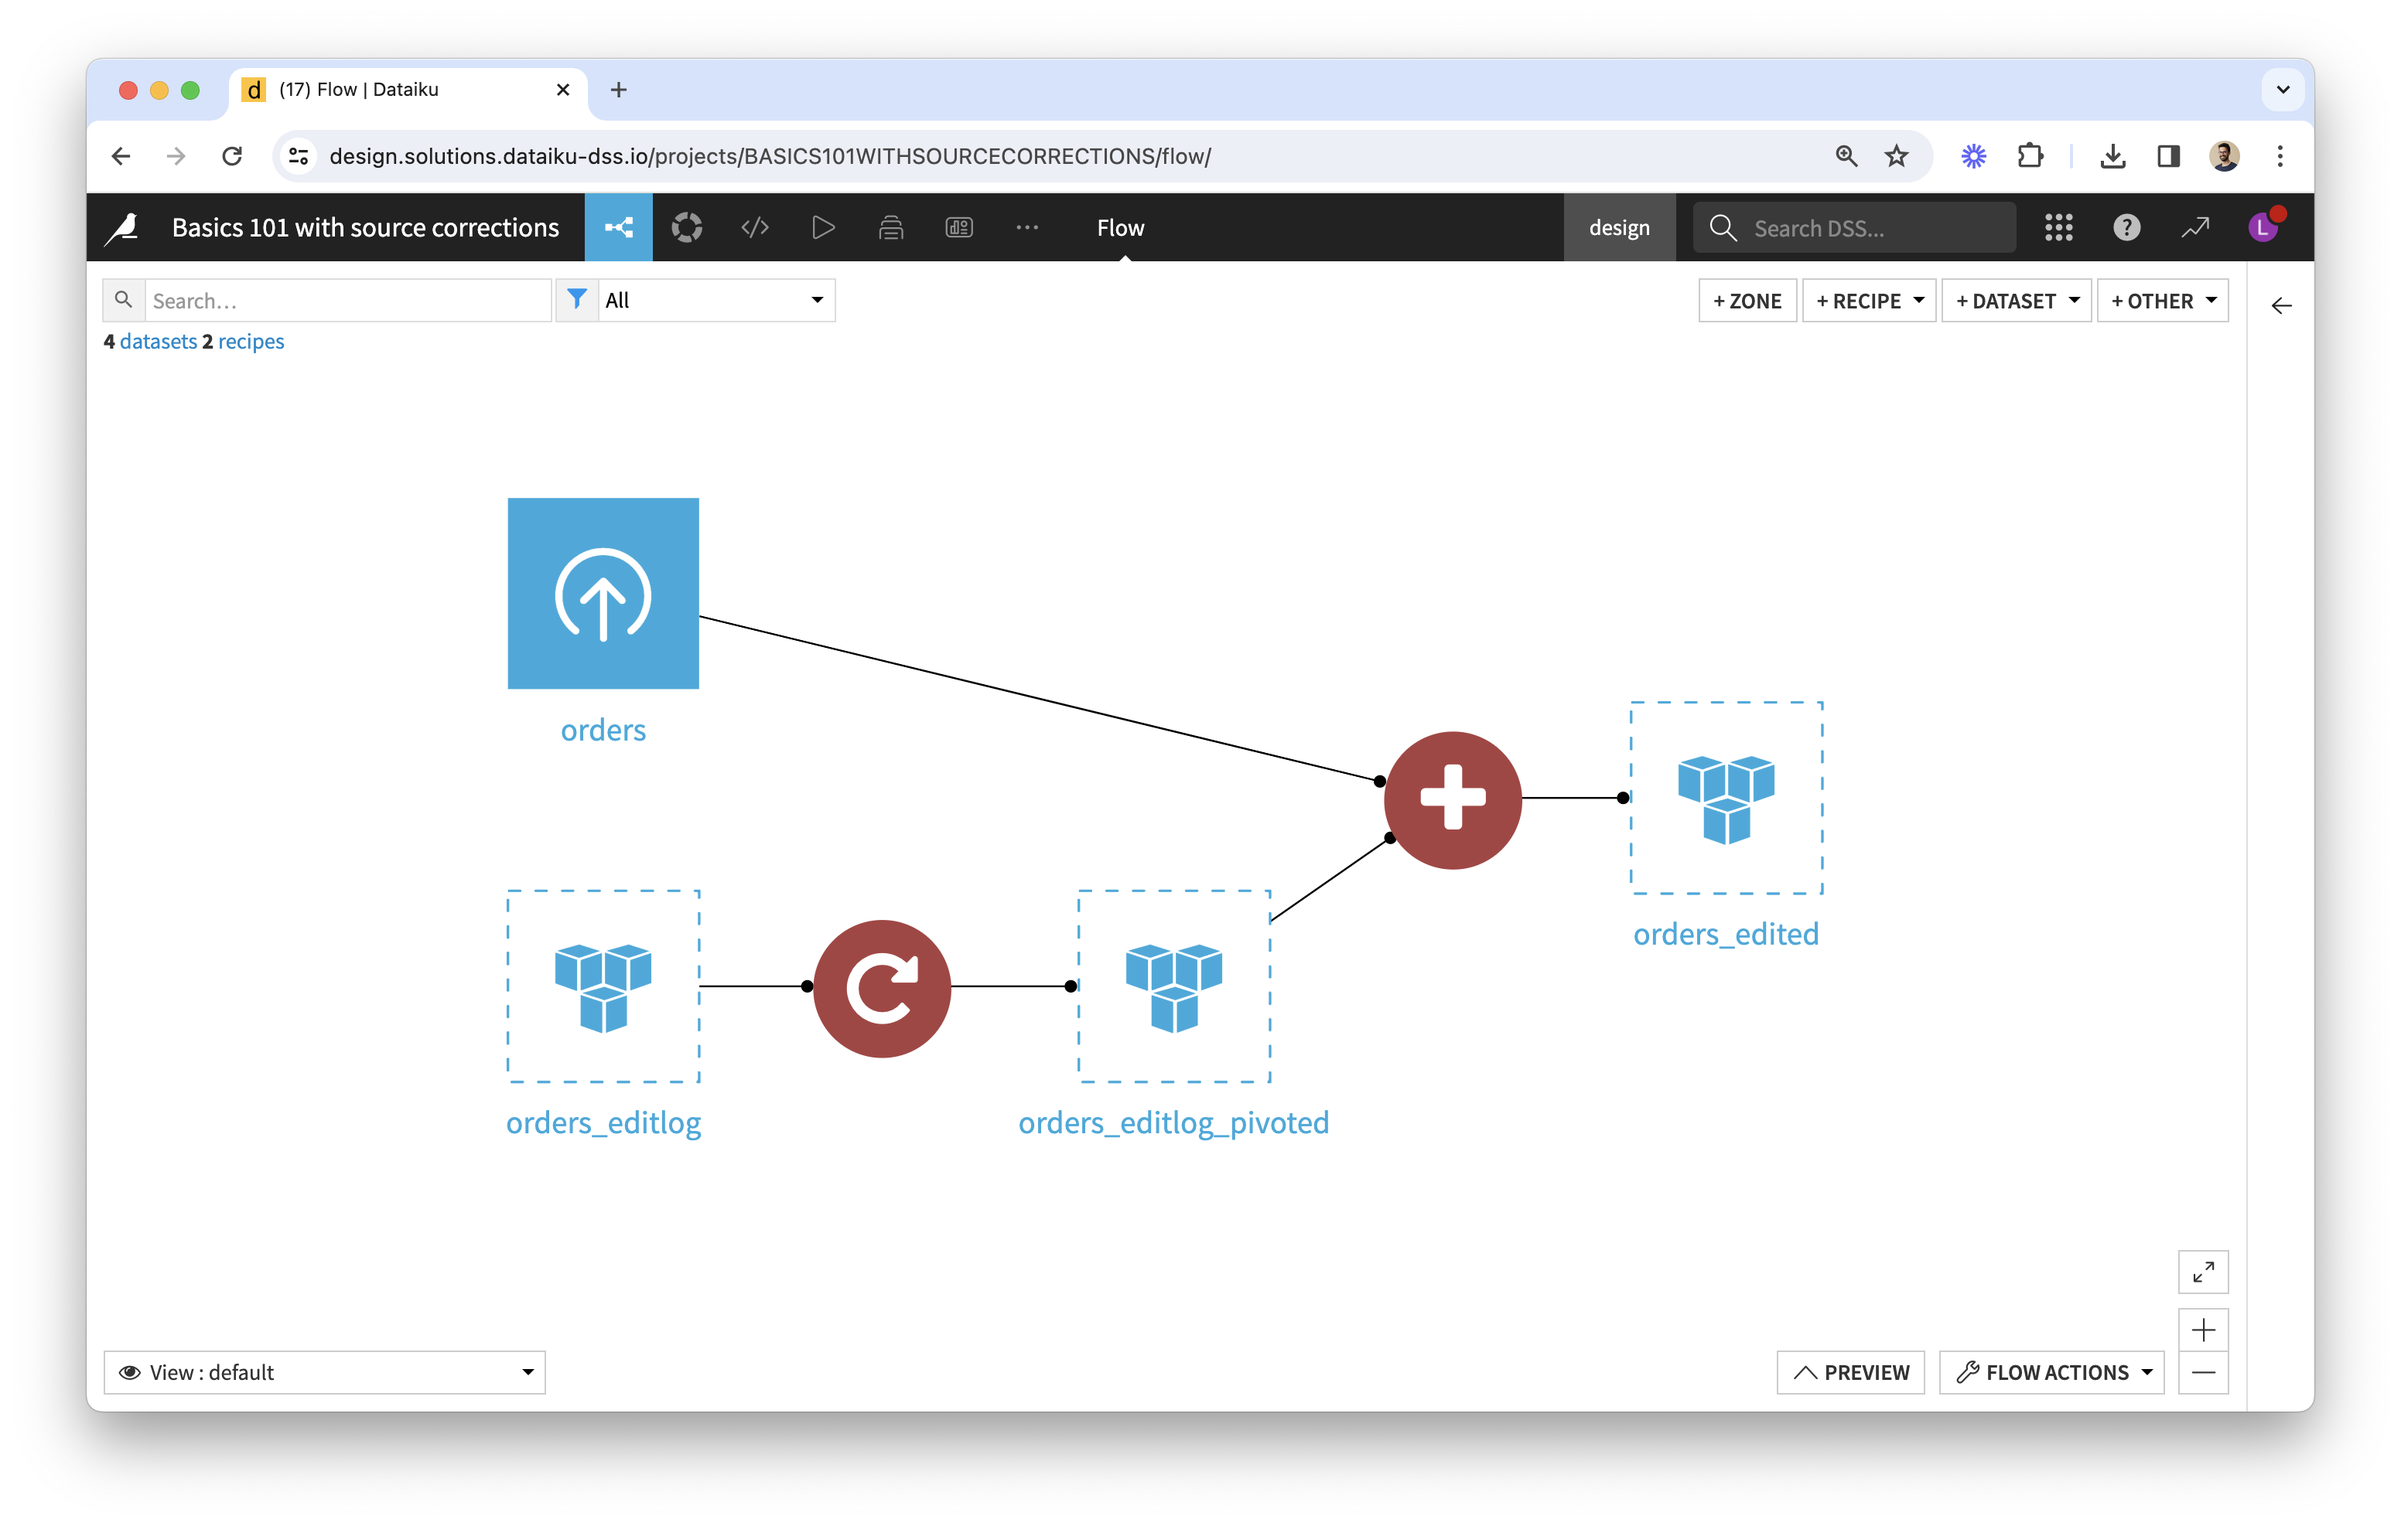
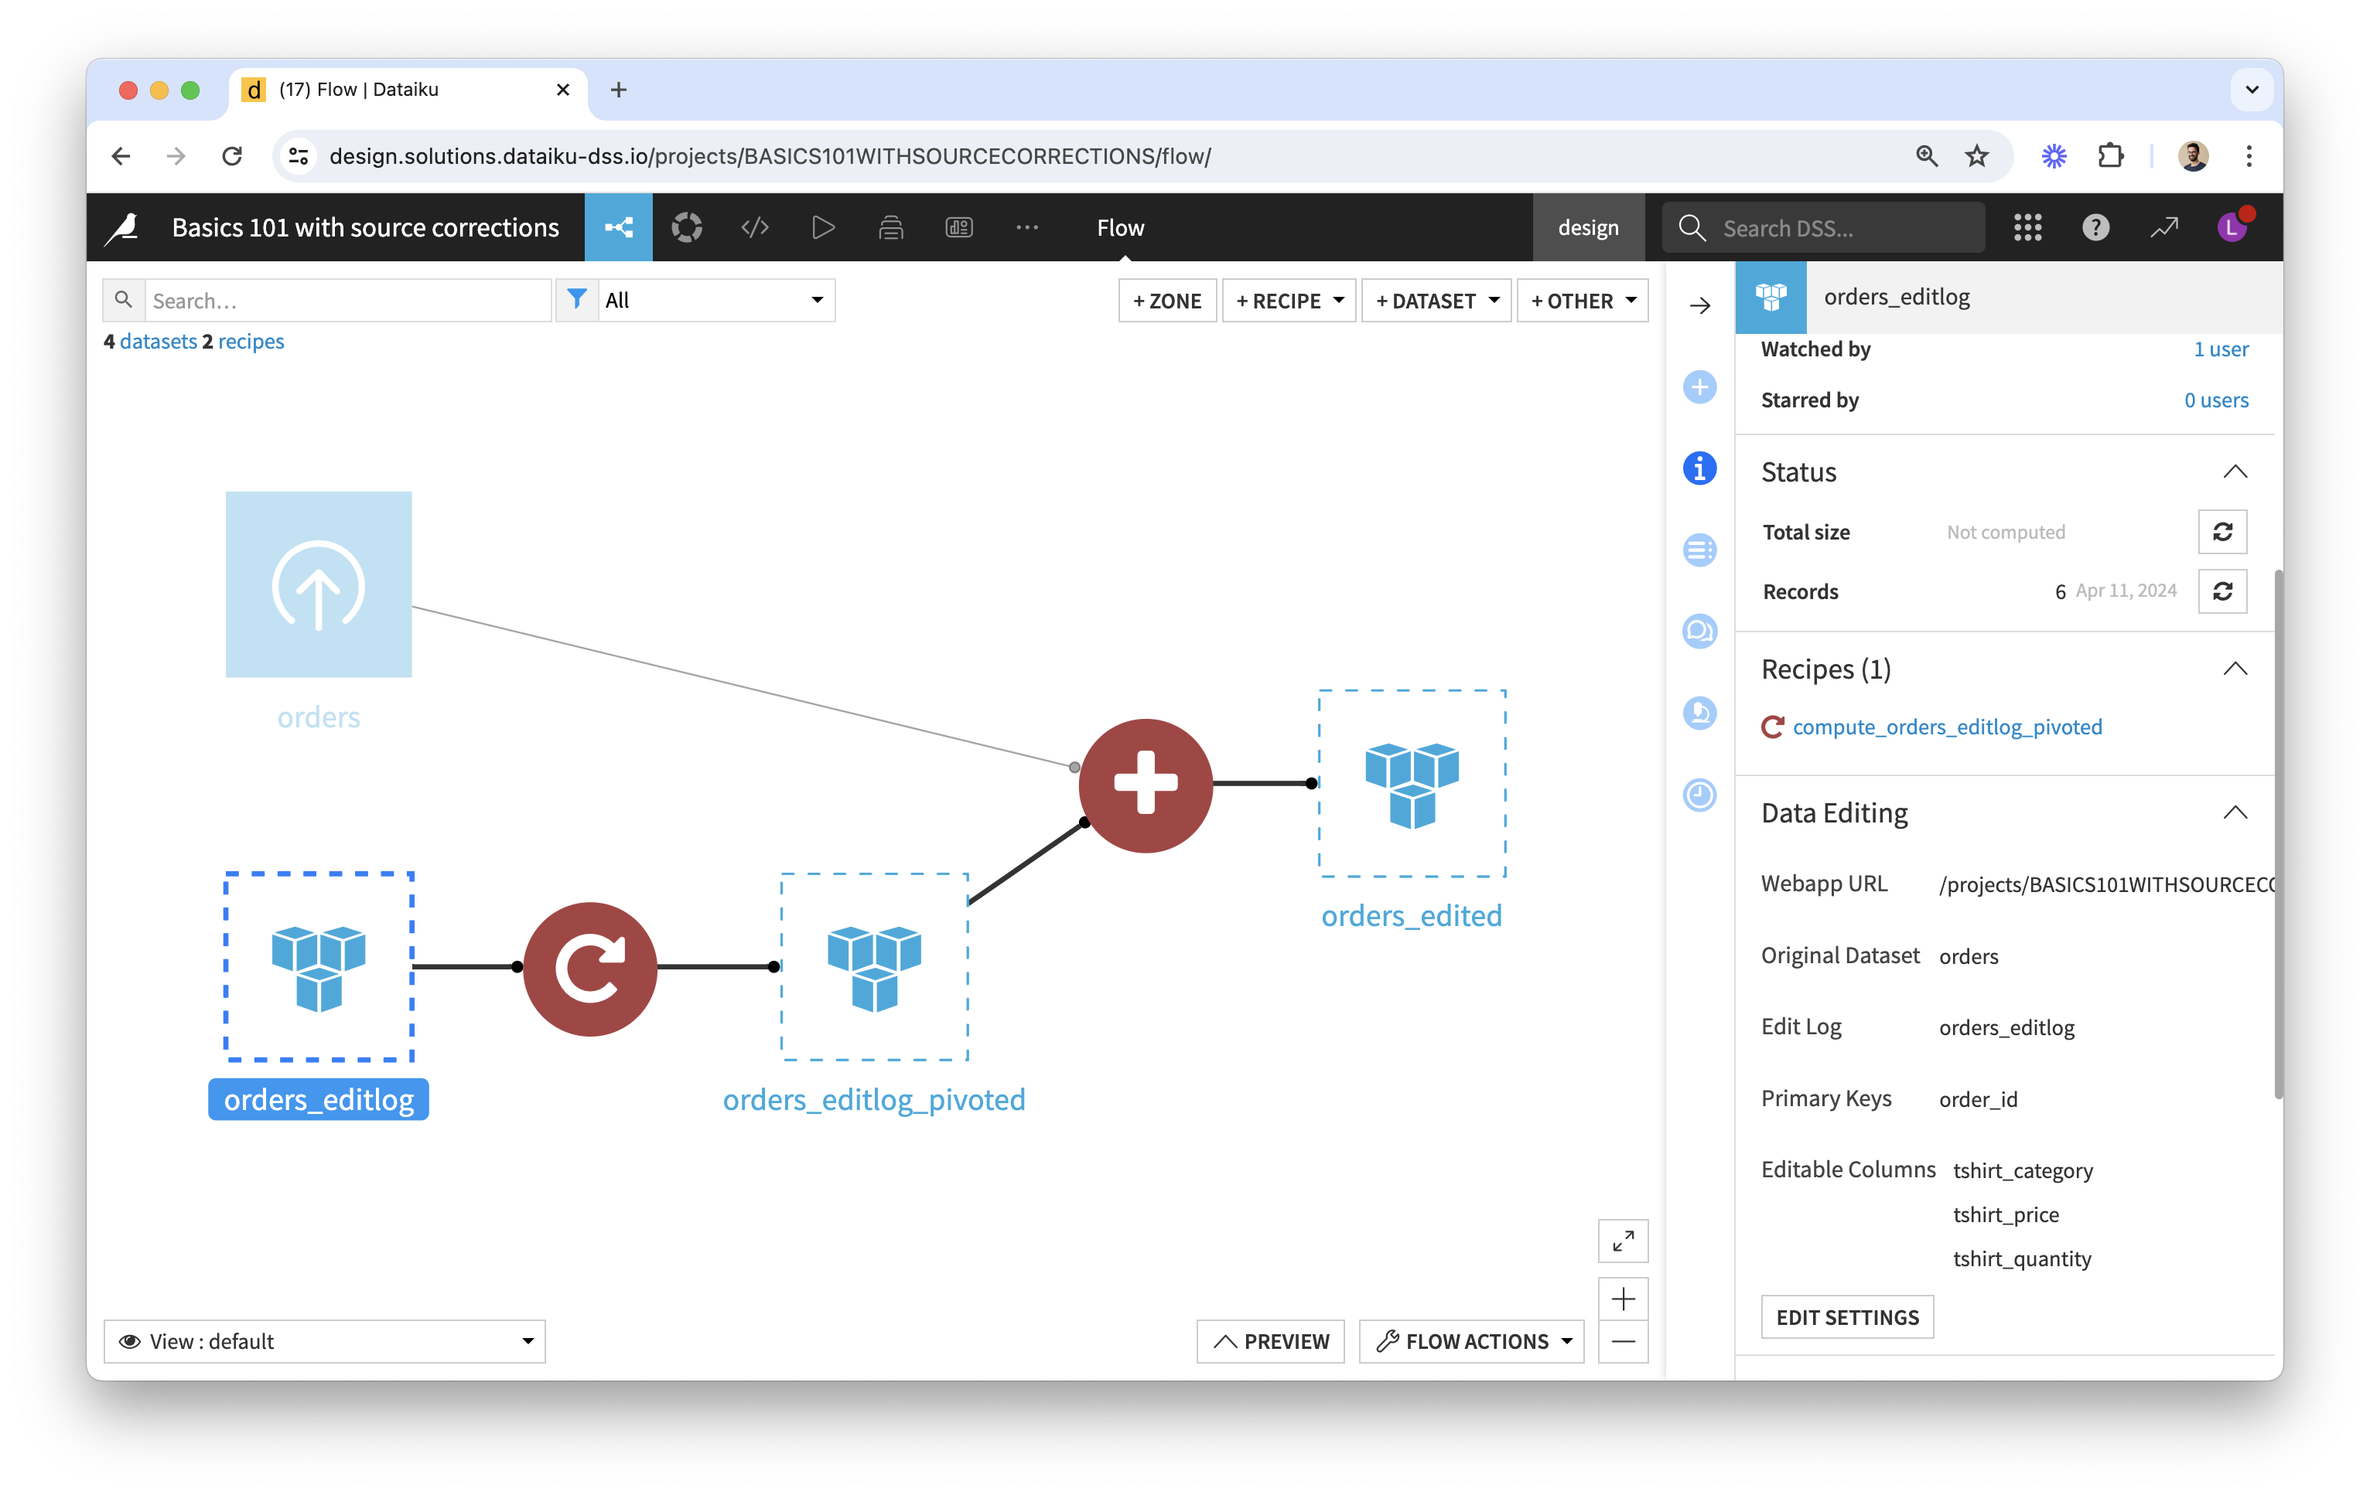
Explain custom fields more clearly

diff --git a/docs/get-started.md b/docs/get-started.md
@@ -47,30 +47,26 @@ Here is an example of what a data editing webapp would look like:
 
 ![](webapp_orders.png)
 
-A few things happen behind the scenes upon starting the webapp:
-
-* Settings such as primary keys and editable columns are copied into the corresponding _Data Editing_ fields of the chosen dataset (custom fields provided by the plugin).
-* 3 datasets are created (if they don't already exist):
-
-![](new_datasets.png)
-
+3 datasets are created upon starting the webapp (if they don't already exist): ![](new_datasets.png)
 Their names start with the original dataset's name. Let's review them by their suffix:
 
- 1. **_editlog_** is the raw record of all edit events captured by the webapp. It also serves as an audit trail, for governance purposes. The schema of this dataset is fixed, whatever the original dataset. Here is an example: ![](editlog.png)
- 2. **_editlog\_pivoted_** is the output of the _pivot-editlog_ recipe (provided by the plugin) and the user-friendly view of edits. In the previous example: ![](editlog_pivoted.png)
-    * Its schema is a subset of the original dataset's: it doesn't have columns that are display-only, but it has the same key columns and the same editable columns, plus a _last\_edit\_date_ column.
-    * Its rows are a subset of the original dataset's: it doesn't contain rows where no edits were made.
-    * You can think of it as...
-      * A "diff" between edited and original data.
-      * A dataset of overrides to apply to the original dataset.
-      * The result of "replaying" edit events stored in the log: we only see the last edited values.
- 3. **_edited_** is the output of the _merge-edits_ recipe (provided by the plugin) that feeds from the original dataset and the _editlog\_pivoted_.
-    * It corresponds to the edited data that you are seeing via the webapp.
-    * However, it is not in sync with the webapp: it's up to you to decide when to build it in the Flow.
-    * It contains the same number of rows as in the original dataset. For any given cell identified by its column and primary key values, if a non-empty value is found in _editlog\_pivoted_, this value is used instead of the original one.
-    * Note that, as a result of the above, it is impossible to empty a non-empty cell with the plugin’s Visual Webapp and recipes. This is because empty values in _editlog\_pivoted_ are ignored.
+1. **_editlog_** is the raw record of all edit events captured by the webapp. It also serves as an audit trail, for governance purposes. The schema of this dataset is fixed, whatever the original dataset. Here is an example: ![](editlog.png)
+2. **_editlog\_pivoted_** is the output of the _pivot-editlog_ recipe (provided by the plugin) and the user-friendly view of edits. In the previous example: ![](editlog_pivoted.png)
+  * Its schema is a subset of the original dataset's: it doesn't have columns that are display-only, but it has the same key columns and the same editable columns, plus a _last\_edit\_date_ column.
+  * Its rows are a subset of the original dataset's: it doesn't contain rows where no edits were made.
+  * You can think of it as...
+    * A "diff" between edited and original data.
+    * A dataset of overrides to apply to the original dataset.
+    * The result of "replaying" edit events stored in the log: we only see the last edited values.
+3. **_edited_** is the output of the _merge-edits_ recipe (provided by the plugin) that feeds from the original dataset and the _editlog\_pivoted_.
+  * It corresponds to the edited data that you are seeing via the webapp.
+  * However, it is not in sync with the webapp: it's up to you to decide when to build it in the Flow.
+  * It contains the same number of rows as in the original dataset. For any given cell identified by its column and primary key values, if a non-empty value is found in _editlog\_pivoted_, this value is used instead of the original one.
+  * Note that, as a result of the above, it is impossible to empty a non-empty cell with the plugin’s Visual Webapp and recipes. This is because empty values in _editlog\_pivoted_ are ignored.
 
 The datasets are created on the same connection as the original dataset. If not already the case, we recommend using a SQL connection for fast and reliable edits. For edits to be recorded by the webapp, this has to be a write connection. If that's not the case, you can change the connection of these datasets as soon as they've been added to the Flow.
+
+Settings such as primary keys and editable columns are copied into the _Data Editing_ fields of the original and the _editlog_ datasets ([custom fields provided by the plugin](https://doc.dataiku.com/dss/latest/plugins/reference/custom-fields.html) — see the bottom right corner of the screenshot above). This is how the recipes have access to settings defined in the webapp.
 
 ## Test the webapp on your own
 
